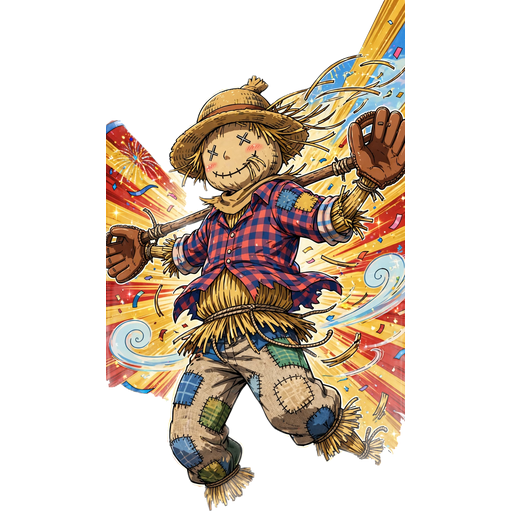
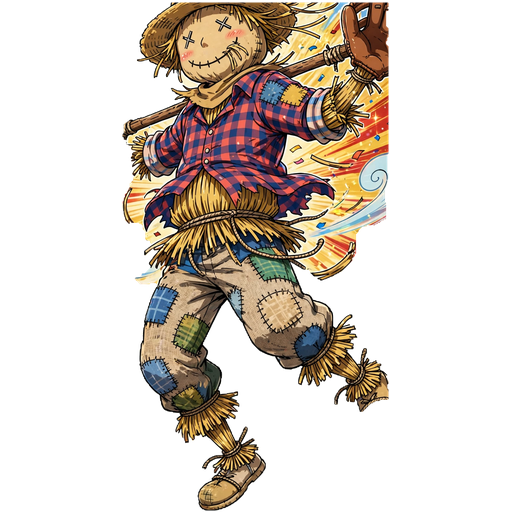
フェーズB: 新規51体の監査。切り抜きの失敗6体を抜き直し、ペンギンの一覧用の切り出し位置を直す
Claude-Session: https://claude.ai/code/session_01QQs7RWPB3ke7GDCzDL7CDM

diff --git a/unity/Tools/chara-cutout/cut_fix.py b/unity/Tools/chara-cutout/cut_fix.py
@@ -9,7 +9,16 @@ FIX = {
     'pole': ('mask', None),
     'zombie': ('mask', None),
     'rock': ('rect', (0.10, 0.50, 0.90, 0.90)),
+    # isnet が背景の光・爆発まで拾った絵(2026-11-07 新規51体)
+    'scarecrow': ('rect', (0.16, 0.20, 0.95, 0.97)),
+    'robovac': ('rect', (0.05, 0.28, 0.95, 0.90)),
+    'tengu': ('rect', (0.05, 0.05, 0.95, 0.97)),
+    'yeti': ('rect', (0.05, 0.08, 0.95, 0.92)),
+    'announcer': ('rect', (0.05, 0.10, 0.97, 0.93)),
+    'daibutsu': ('rect', (0.05, 0.10, 0.95, 0.90)),
 }
+import sys
+ONLY = sys.argv[1:] or None   # 一部だけやり直すときは引数に id を並べる
 src = os.path.expanduser('~/mnt/gunya-yakyu/chara')
 out = os.path.expanduser('~/cut')
 sess = ort.InferenceSession(os.path.expanduser('~/models/isnet-anime.onnx'), providers=['CPUExecutionProvider'])
@@ -21,6 +30,7 @@ def isnet(im):
     return (m - m.min()) / (m.max() - m.min() + 1e-6)
 
 for cid, (mode, rect) in FIX.items():
+    if ONLY and cid not in ONLY: continue
     f = next(p for p in os.listdir(src) if os.path.splitext(p)[0] == cid and os.path.isfile(os.path.join(src, p)))
     im = Image.open(os.path.join(src, f)).convert('RGB'); W, H = im.size
     s = 0.25; w, h = int(W * s), int(H * s)
@@ -35,7 +45,8 @@ for cid, (mode, rect) in FIX.items():
         x0, y0, x1, y1 = int(rect[0] * w), int(rect[1] * h), int(rect[2] * w), int(rect[3] * h)
         gm[:] = cv2.GC_BGD
         gm[y0:y1, x0:x1] = cv2.GC_PR_FGD
-        gm[ms > 0.5] = cv2.GC_FGD          # isnet が拾った小物(帽子)は残す
+        if cid == 'rock': gm[ms > 0.5] = cv2.GC_FGD          # isnet が拾った小物(帽子)は残す
+        else: gm[(ms > 0.85) & (gm == cv2.GC_PR_FGD)] = cv2.GC_FGD
     cv2.grabCut(small, gm, None, bgm, fgm, 8, cv2.GC_INIT_WITH_MASK)
     a = ((gm == 1) | (gm == 3)).astype(np.uint8)
     # 一番大きなかたまり + その 3% 以上のかたまりだけ残す

diff --git a/unity/Tools/chara-cutout/cards.py b/unity/Tools/chara-cutout/cards.py
@@ -3,6 +3,9 @@
 #   Full : 横648に縮小(縦は比のまま)
 # 使い方: python cards.py <chara フォルダ> <Assets/Resources/Chara>
 import sys, os
+
+# 一覧用の切り出し位置(上からの割合)をキャラごとに変える。絵の主役が下に寄っているもの
+THUMB_Y = {'penguin': 1.0}
 from PIL import Image
 
 def main():
@@ -20,7 +23,7 @@ def main():
             im.resize((648, round(H * 648 / W)), Image.LANCZOS).save(fu, optimize=True)
         if not os.path.exists(th):
             ch = min(H, round(W * 1.5)); cw = round(ch / 1.5)
-            ox = (W - cw) // 2; oy = round((H - ch) * 0.35)
+            ox = (W - cw) // 2; oy = round((H - ch) * THUMB_Y.get(cid, 0.35))
             im.crop((ox, oy, ox + cw, oy + ch)).resize((240, 360), Image.LANCZOS).save(th, optimize=True)
         n += 1
     print('made', n)

diff --git a/unity/Docs/audit_2026-11-07.md b/unity/Docs/audit_2026-11-07.md
@@ -1,0 +1,50 @@
+# キャラ画像・世界観 監査（2026-11-07、新規51体）
+
+対象: cards51-1〜4.zip の新規51体（ch035 会社員 + ch051〜ch101 のうち ch055 以外）。既存50体は audit_2026-11-05.md。
+判定: 合格 44 / 要修正 6（うち Unity 側で吸収 3） / 要再生成 1
+（判断待ちの「保留5体」「ポジション不一致4体」は既存50体側の件で、本書の対象外）
+
+## Unity 側で吸収したこと
+
+- 全51枚が金×赤の豪華背景で描かれている（★1 のモブも同じ豪華さ）。既存と同じく、★1〜★3 はキャラだけ切り抜いてレア度別の背景に載せるので、レア度と見た目の逆転は起きない。
+- 背景色が金×赤でない絵（fortune-apprentice 紫、soccer 緑、panda 緑、hamster 桃、owl 紺、bodybuilder 橙）も ★1〜★2 なので同様に吸収。
+- カードの金枠が絵の中に描き込まれている絵（fox / mochi / rock）も、切り抜きで枠は使わない。
+- 切り抜きの失敗（自動切り抜きが背景を拾った、または本体を落とした）を個別に抜き直し: pole / rock / zombie（頭が消えていた） / scarecrow / robovac / tengu / yeti / announcer / daibutsu。scarecrow は体の後ろの風の渦が少し残る（「風まかせ」の設定どおりなので許容）。
+- penguin（★4）は主役が絵の下端にあり、一覧用の切り出しで空ばかりになっていたので、切り出し位置を下にずらした。
+- 顔の位置（対戦カード・カットイン用）は自動推定し、外れた fox / owl / kappa / rock を手で直した。
+
+## 1体ずつの判定（合格以外）
+
+| 画像 | 判定 | 理由 |
+|---|---|---|
+| miko | 要再生成 | 足元に海賊の宝箱・錨・ロープが描かれている（海賊キャプテンの絵の要素が混入）。投手なのに捕手のすね当て |
+| rakugo | 要修正（軽微） | 打者専門だがグローブと捕手のすね当てを着けている |
+| bartender | 要修正（軽微） | 投手だが捕手のすね当て |
+| maid | 判断が必要 | ヒロイン枠以外の若い女性。コミカルさ（おじぎ＋捕手の防具）はある |
+| weathercaster | 判断が必要 | 同上（ヒロイン枠以外の若い女性）。笑い要素は弱め |
+| manager | 判断が必要 | 同上。設定（女子高生マネージャー）どおりではある |
+
+- ojousama はタグに「ヒロイン枠」と明記されているので合格。
+- giant は「3m20cm・電柱バット」の設定に対して絵は普通の大男・普通のバット（軽微。合格扱い）。
+- 文字・ロゴの混入はなし。解剖学的な崩れ（指・握り・関節）は一覧の縮尺では目立つものなし。
+
+## 再生成プロンプト（miko）
+
+共通スタイル: 縦長 1:2、全身、金×赤の豪華な背景（放射状の光・花火・紙吹雪・キラキラ粒子）、大げさな表情とポーズ、笑える要素を1つ、文字・ロゴ・数字は入れない、既存カード絵と同じアニメ調の線と塗り。
+
+**miko（巫女さん選手 / ★3 / 投手）**
+紅白の巫女装束にグローブをはめた巫女さんが、マウンドで投球前に大きな塩の山を両手でどさっとまく瞬間。塩が多すぎて足元が雪のように白くなり、本人は真顔。宝箱・錨・ロープなど海に関係する小物は描かない。すね当てなど捕手の防具は着けない。
+
+## 世界観の点検（作業B）
+
+| 点検項目 | 結果 |
+|---|---|
+| トーン | 新規51体はすべてコミカル路線。怖い・暗い演出の混入なし（zombie・vampire もコミカル寄り） |
+| 演出レイヤー | タイトル・ガチャ・カード枠・レア度の色は金×赤で統一。レア度の色の序列は全画面で同じ（UiKit.RarityBg / RevealColor） |
+| テキスト | 紹介文は roster-101.csv のまま。UI に説明文なし |
+| 数値 | ガチャ確率・天井・交換（SECRET=10,000）・コイン300=15pt は EditMode テストで一致を確認。重ね上限は CSV の stack_limit を使用 |
+| 音楽 | 追補の30曲すべてがシーンに割り当て済み。優先度（SECRET > ★5 > ★4 > 通常、サヨナラ > 勝利）も実装どおり |
+| ロスター表示 | 101体すべて絵あり（仮表示ゼロ）。並びはレア度→番号順 |
+| SECRET の性能 | 能力値は52止まり（★5より低い）。ネタ枠の仕様どおり |
+
+修正できなかったもの: bgm-shop（ショップ・交換所）は、交換所が独立した画面ではなく、カード詳細とガチャ画面の中にあるため鳴らす場面がない。画面を作るかは仕様の判断。
